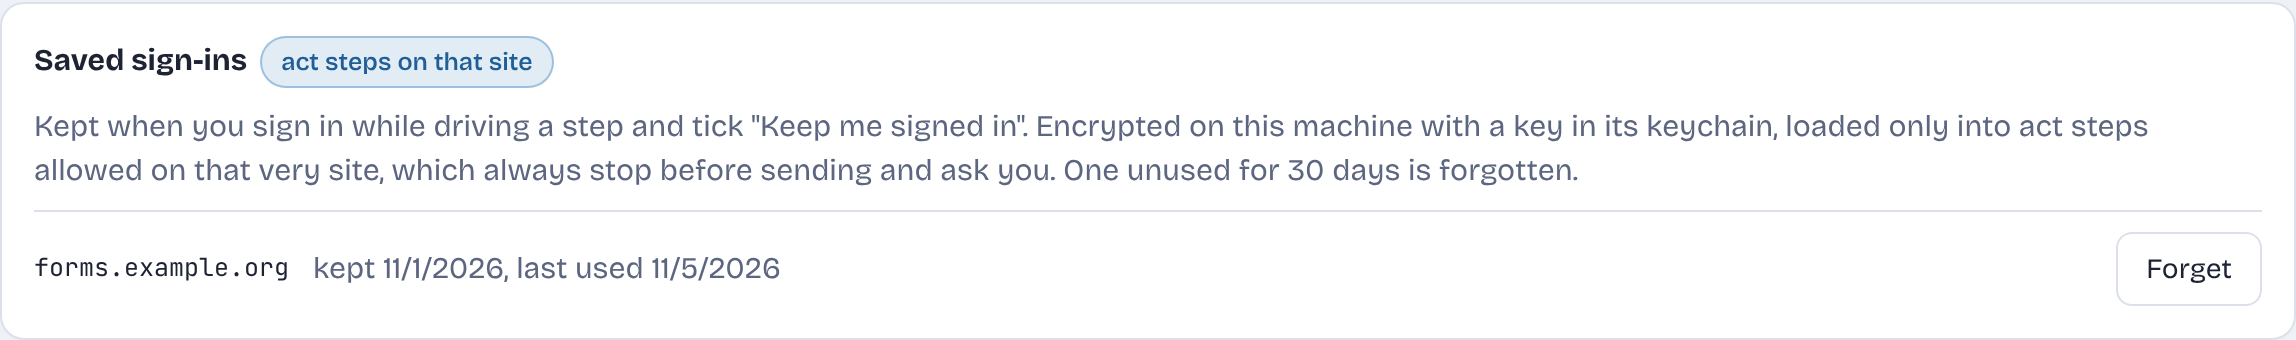
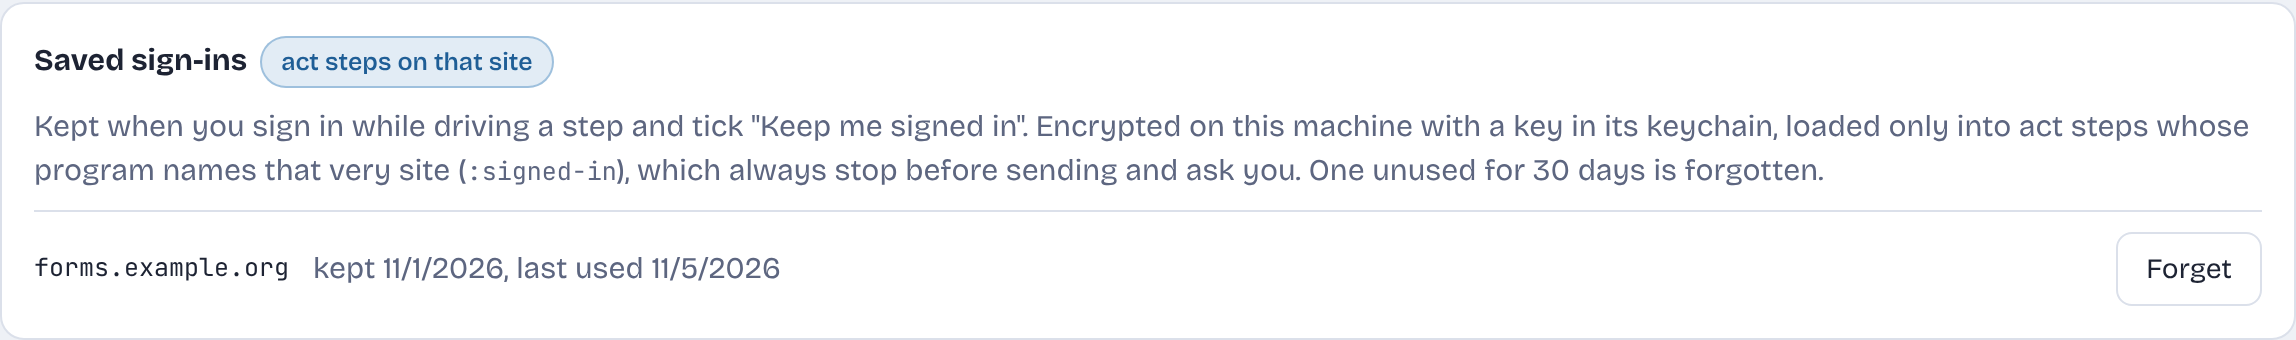
Say what loads a saved sign-in: a program naming the site (roadmap 9.11, review 53)
The Saved sign-ins panel still said any act step allowed on the site
loaded it; since review 53 only a program naming the site with
:signed-in does. The browser test now checks the words (DRAW-642).

Claude-Session: https://claude.ai/code/session_01GC4sPALMeuaPgTzQXRniVv

Changed region(s): [[0.0, 0.4706, 0.804, 0.5588], [0.9277, 0.3529, 0.9895, 0.4118]]

diff --git a/static/app.js b/static/app.js
@@ -1291,7 +1291,7 @@ function SavedSignIns() {
   return html`
     <div class="panel connector" id="sign-ins">
       <div class="pills"><strong>Saved sign-ins</strong><${Pill} cls="k-act" plain>act steps on that site<//></div>
-      <p class="muted">Kept when you sign in while driving a step and tick "Keep me signed in". Encrypted on this machine with a key in its keychain, loaded only into act steps allowed on that very site, which always stop before sending and ask you. One unused for 30 days is forgotten.</p>
+      <p class="muted">Kept when you sign in while driving a step and tick "Keep me signed in". Encrypted on this machine with a key in its keychain, loaded only into act steps whose program names that very site (<code>:signed-in</code>), which always stop before sending and ask you. One unused for 30 days is forgotten.</p>
       ${list.length === 0 ? html`<p class="muted">None kept.</p>` : list.map((x) => html`
         <div class="key-row" key=${x.host} style=${{ flexDirection: "row", alignItems: "center", gap: "12px", flexWrap: "wrap" }}>
           <span class="mono">${x.host}</span>

diff --git a/ui/browser.test.js b/ui/browser.test.js
@@ -870,6 +870,10 @@ test("signed in as you: the card says so, hand back keeps it, You forgets it", a
     await p.goto(BASE + "/#/connectors");
     const panel = p.locator("#sign-ins");
     await panel.getByText("forms.example.org").waitFor();
+    // It says what loads a sign-in: a program naming the site, not any
+    // step allowed there (review 53: the panel still said the latter).
+    const says = await panel.textContent();
+    assert.ok(says.includes("whose program names that very site (:signed-in)") && !says.includes("allowed on that very site"), says);
     if (process.env.DRAWDOWN_SHOTS) await panel.screenshot({ path: path.join(process.env.DRAWDOWN_SHOTS, `sign-ins-${scheme}.png`) });
     await panel.getByRole("button", { name: "Forget" }).click();
     await panel.getByText("None kept.").waitFor();

diff --git a/docs/wiki/Invariants.md b/docs/wiki/Invariants.md
@@ -161,6 +161,6 @@ Every invariant below is guarded by a test or a CI step, and CI checks this page
 | DRAW-640 | The saved sign-ins are listed, by host and times and never what they hold, and forgotten, file and key, only from this machine; a program's act steps would start signed in on its hosts with a saved sign-in, exactly | `TestInv_SavedSignInsOnlyHere` | Roadmap 9.11: the Connectors page lists sessions with a Forget button |
 | DRAW-641 | A program whose act steps start signed in as you (`:signed-in`) runs or is scheduled only when the request carries exactly those hosts, as the page showed them; which hosts is read from the program alone | `TestInv_SignedInRunsOnlyWhereShown` | Roadmap 9.11: the card says "signed in as you on …" in red |
 | DRAW-643 | A program whose act steps start signed in as you runs or is scheduled only from this machine, never through a proxy or from another site; no answer tells a caller which sites have a kept sign-in; the saved sign-ins' endpoints refuse another port and a rebound name, and accept this machine's IPv6 and IPv4-mapped loopback; an error never carries the keychain's words | `TestInv_SignedInRunsOnlyHere`, `TestInv_SavedSignInsOnlyHere` | Review 53: anyone who could reach drawdown could run steps signed in as you, and the card's hosts told which sites you had a sign-in on |
-| DRAW-642 | The card says in red where act steps start signed in as you, and which other sites can see those pages, and the run carries it; Hand back can keep the sign-in of the site the person saw, naming it; Saved sign-ins lists them under You with Forget; in light and dark | `ci:ui`, `ci:browser` | Roadmap 9.11 |
+| DRAW-642 | The card says in red where act steps start signed in as you, and which other sites can see those pages, and the run carries it; Hand back can keep the sign-in of the site the person saw, naming it; Saved sign-ins lists them under You with Forget, saying a sign-in loads only into steps whose program names the site (`:signed-in`); in light and dark | `ci:ui`, `ci:browser` | Roadmap 9.11; review 53: after `:signed-in`, the panel still said any step allowed on the site loaded it |
 | DRAW-644 | Every path that starts a run (a run, a schedule, a schedule's run-now and resume) refuses a program whose act steps start signed in as you unless the request comes from this machine: never from another host, through a proxy, another site, origin or port, or a rebound name; no other handler reaches Temporal's ways of starting a run | `TestInv_EveryRunStartIsHere` | Review 53, round 2: a schedule's run-now and resume started a signed-in program from anywhere |
 | DRAW-645 | Every method of `Temporal` and `Budgeter` is classed as starting a run of the person's program, acting as them in one, or neither; in drawdown and its app, type-checked, the only functions that call one that does, whatever the receiver, are `submit`, `createSchedule`, `scheduleAction`, `setBudget` and `decideForm`, each with its gate (`signedInShown`, `mayStartSchedule`, `mayDecideForm`) before the call; none takes one as a value or hands a `Temporal` or `Budgeter` on; Temporal's own client goes only from each adapter to its own loom function (and from the app's worker to the worker, `Confirmer`, `Scripts` and `ResumeBudgetsEvery`), and its run-starting calls (`ExecuteWorkflow`, signals, a schedule's create, trigger, unpause, update or backfill) appear nowhere; a schedule's actions other than pause and delete, and any new budget (raising, which can resume it, or lowering), are refused from elsewhere for a signed-in program, and an unknown action is 404 before anything is asked; a form of a run with a step signed in is sent or cancelled only from this machine, and one whose program can't be read counts as signed in | `TestInv_EveryRunStartIsHere` | Review 53, round 3: the source scan missed aliases and new methods, and a new budget resumed a signed-in schedule from anywhere; round 4: anyone who could reach drawdown could send a signed-in step's form; round 5: the scan matched names, not types |
